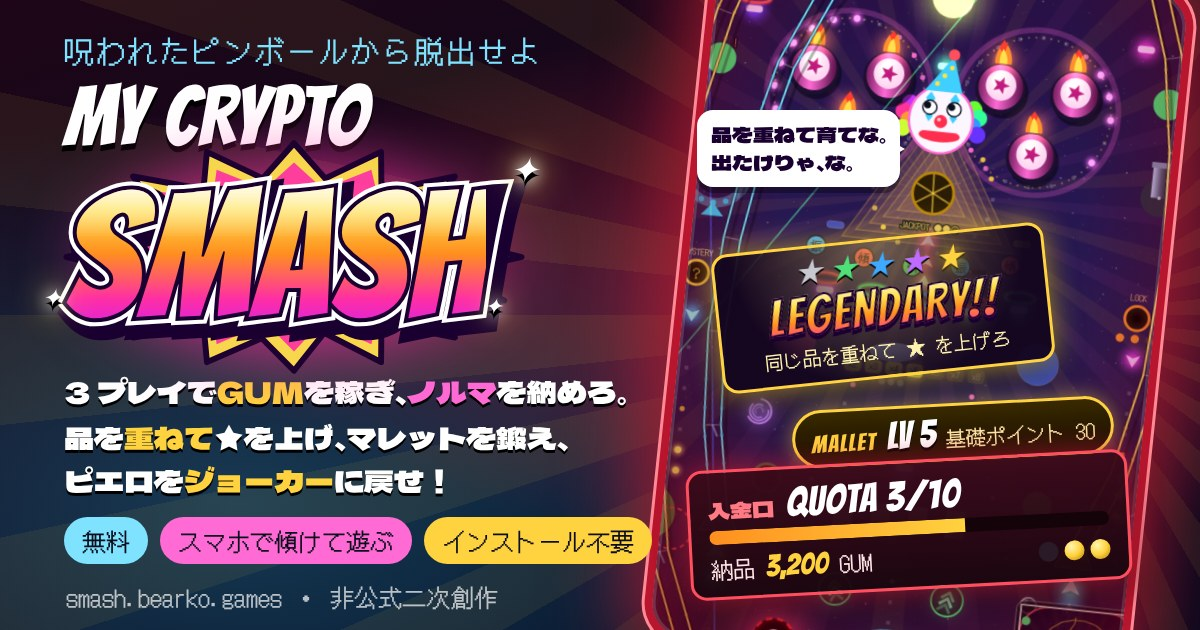
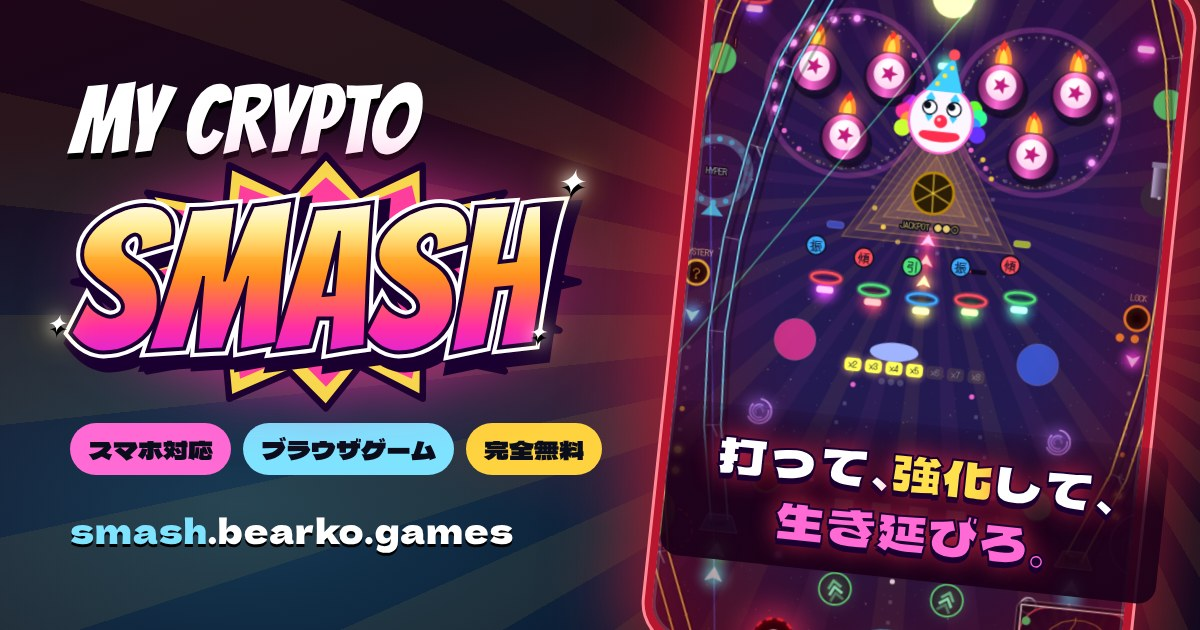
共有のサムネイルの文字を減らす
- 左：タイトル・スマホ対応／ブラウザゲーム／完全無料・smash.bearko.games だけにする
- 右：ピンボールの台とキャッチコピー「打って、強化して、生き延びろ。」だけにする（ピエロのセリフや札は外す）

Claude-Session: https://claude.ai/code/session_01QEYKKMqaKSbrG5R66XJakA

diff --git a/index.html b/index.html
@@ -13,16 +13,16 @@
     <meta property="og:url" content="https://smash.bearko.games/" />
     <meta property="og:title" content="My Crypto Smash｜呪われたピンボールから脱出せよ" />
     <meta property="og:description" content="呪われたピンボールで GUM を稼ぎ、3 プレイ以内に入金口へノルマを納めろ。品を重ねて★を上げ、マレットを鍛え、仕掛けで台を育ててピエロをジョーカーに戻せ！ スマホを傾けて・振って・はじいて遊ぶ（非公式二次創作・無料）" />
-    <meta property="og:image" content="https://smash.bearko.games/og.jpg?v=5" />
+    <meta property="og:image" content="https://smash.bearko.games/og.jpg?v=6" />
     <meta property="og:image:type" content="image/jpeg" />
     <meta property="og:image:width" content="1200" />
     <meta property="og:image:height" content="630" />
-    <meta property="og:image:alt" content="My Crypto Smash：呪われたピンボール台とピエロの顔、「LEGENDARY!!」の札、マレット LV 5、入金口のノルマ「QUOTA 3/10」と「呪われたピンボールから脱出せよ」のロゴ" />
+    <meta property="og:image:alt" content="My Crypto Smash：ピエロの顔が光るピンボール台と「打って、強化して、生き延びろ。」のキャッチコピー、ロゴ、スマホ対応・ブラウザゲーム・完全無料、smash.bearko.games" />
     <meta name="twitter:card" content="summary_large_image" />
     <meta name="twitter:title" content="My Crypto Smash｜呪われたピンボールから脱出せよ" />
     <meta name="twitter:description" content="呪われたピンボールで GUM を稼ぎ、ノルマを納めて脱出せよ。品を重ねて★を上げ、ピエロをジョーカーに（非公式二次創作・無料）" />
-    <meta name="twitter:image" content="https://smash.bearko.games/og.jpg?v=5" />
-    <meta name="twitter:image:alt" content="My Crypto Smash：呪われたピンボール台とピエロの顔、「LEGENDARY!!」の札、マレット LV 5、入金口のノルマ「QUOTA 3/10」と「呪われたピンボールから脱出せよ」のロゴ" />
+    <meta name="twitter:image" content="https://smash.bearko.games/og.jpg?v=6" />
+    <meta name="twitter:image:alt" content="My Crypto Smash：ピエロの顔が光るピンボール台と「打って、強化して、生き延びろ。」のキャッチコピー、ロゴ、スマホ対応・ブラウザゲーム・完全無料、smash.bearko.games" />
     <link rel="icon" href="icon.svg" type="image/svg+xml" />
     <link rel="apple-touch-icon" href="apple-touch-icon.png" />
     <meta name="theme-color" content="#0b1020" />
